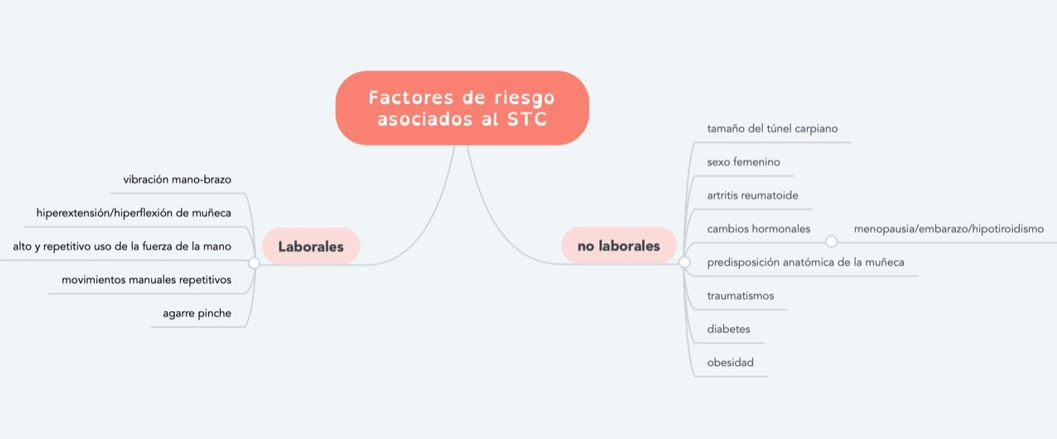
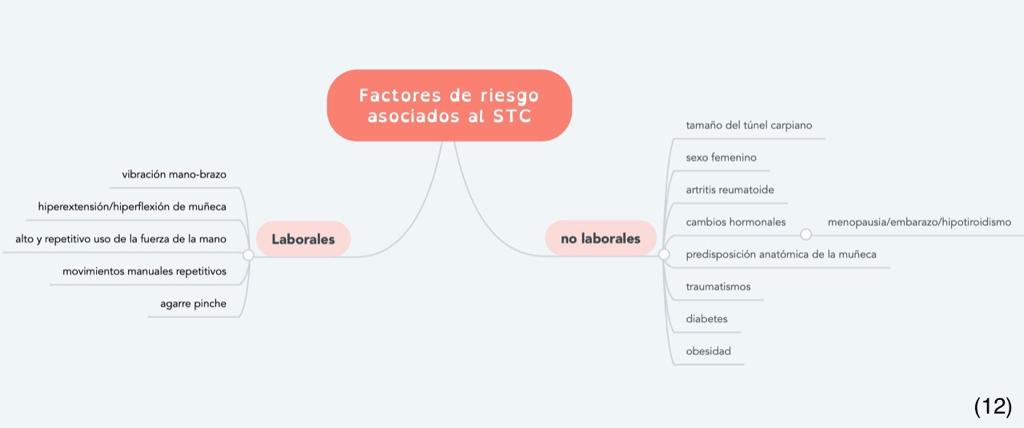
Modelos 3d y factores de riesgo

diff --git a/Semana6.html b/Semana6.html
@@ -61,6 +61,7 @@
         height="550px"
       />
       <h2>Modelado 3D</h2>
+      <h3>Palma</h3>
       <img
         src="images/Modelado 3D 1.JPG"
         alt="Modelado 3D"
@@ -75,6 +76,26 @@
       />
       <img
         src="images/Modelado 3D 3.JPG"
+        alt="Modelado 3D"
+        width="800px"
+        height="550px"
+      />
+      </br>
+      <h3>Antepalma</h3>
+      <img
+        src="images/Modelado 3D 4.JPG"
+        alt="Modelado 3D"
+        width="800px"
+        height="550px"
+      />
+      <img
+        src="images/Modelado 3D 5.JPG"
+        alt="Modelado 3D"
+        width="800px"
+        height="550px"
+      />
+      <img
+        src="images/Modelado 3D 6.JPG"
         alt="Modelado 3D"
         width="800px"
         height="550px"

diff --git a/Semana2.html b/Semana2.html
@@ -108,10 +108,10 @@
       />
       <h2>Factores de riesgo</h2>
       <img
-        src="images/Factores de riesgo.JPG"
+        src="images/Factores de riesgo.jpg"
         alt="Factores de riesgo"
         width="950px"
-        height="600px"
+        height="500px"
       />
       <h2>Healthcare Costumer Journey Map</h2>
       <img
